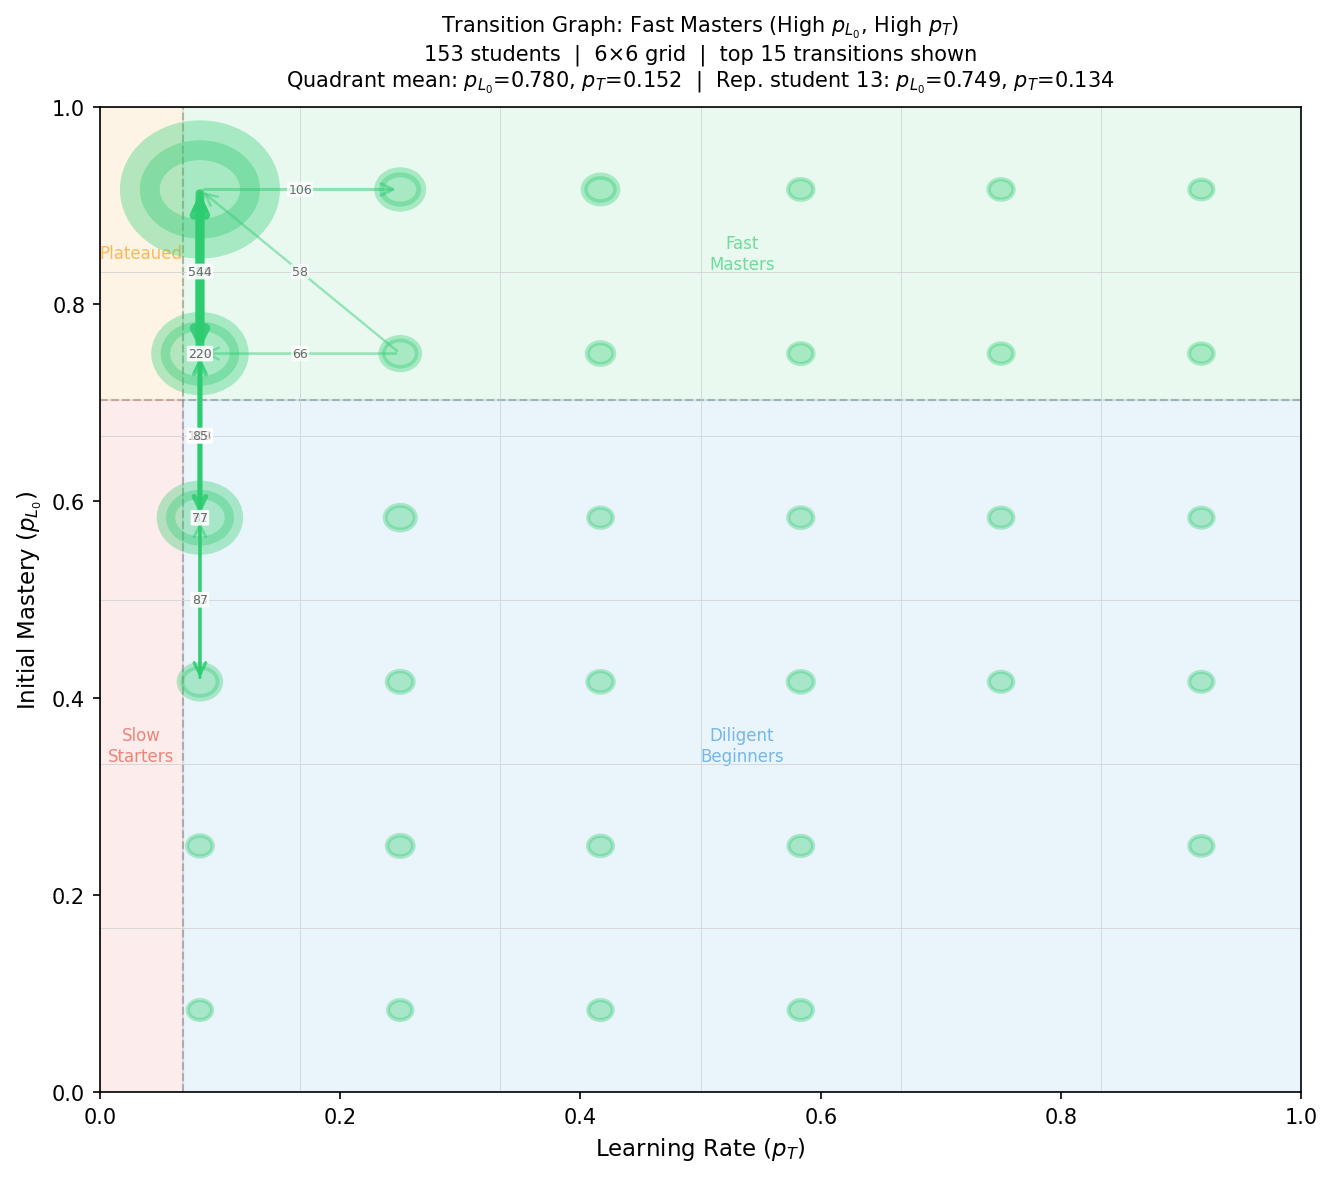
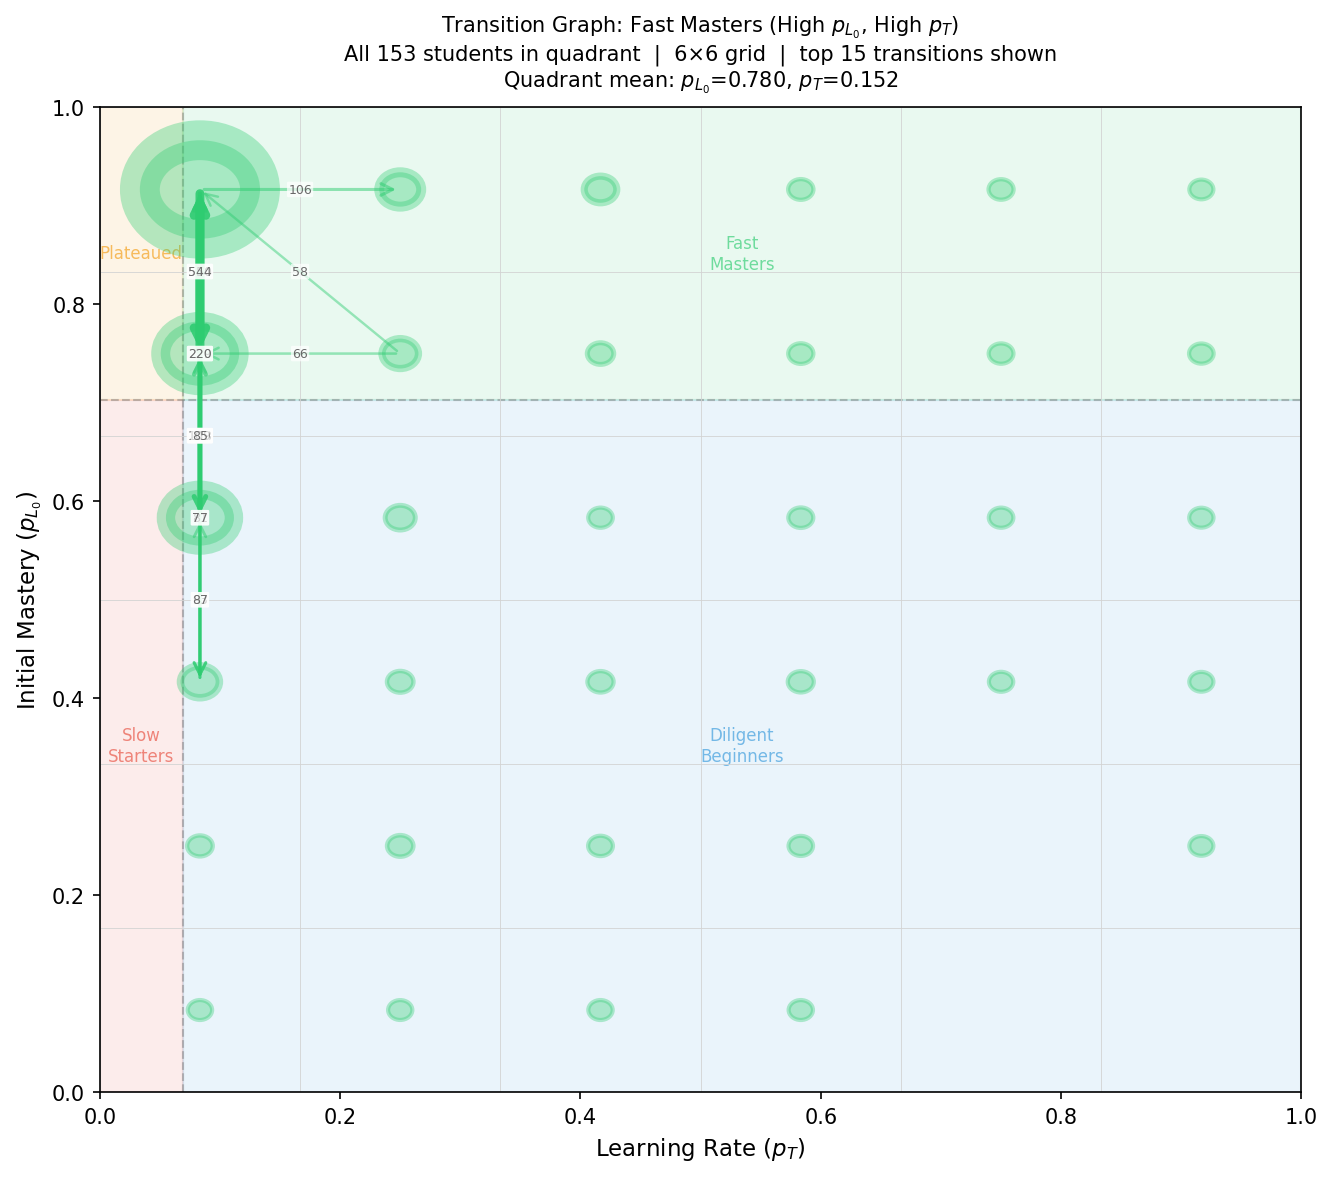
plots: transition graphs with circles outside the representaive quadrant

Changed region(s): [[0.2153, 0.0306, 0.8305, 0.0918]]

diff --git a/examples/results/generate_attractor_dynamics_plots.py b/examples/results/generate_attractor_dynamics_plots.py
@@ -372,9 +372,8 @@ def plot_transition_graph(df, sm, rate_col, init_col, representatives,
         rep_mean_t   = sm.loc[uid, rate_col]
         ax.set_title(
             f'Transition Graph: {labels[i]}\n'
-            f'{n_quad} students  |  {grid_n}×{grid_n} grid  |  top {top_k} transitions shown\n'
-            f'Quadrant mean: $p_{{L_0}}$={quad_mean_l0:.3f}, $p_T$={quad_mean_t:.3f}'
-            f'  |  Rep. student {uid}: $p_{{L_0}}$={rep_mean_l0:.3f}, $p_T$={rep_mean_t:.3f}',
+            f'All {n_quad} students in quadrant  |  {grid_n}×{grid_n} grid  |  top {top_k} transitions shown\n'
+            f'Quadrant mean: $p_{{L_0}}$={quad_mean_l0:.3f}, $p_T$={quad_mean_t:.3f}',
             fontsize=10, pad=10
         )
 
